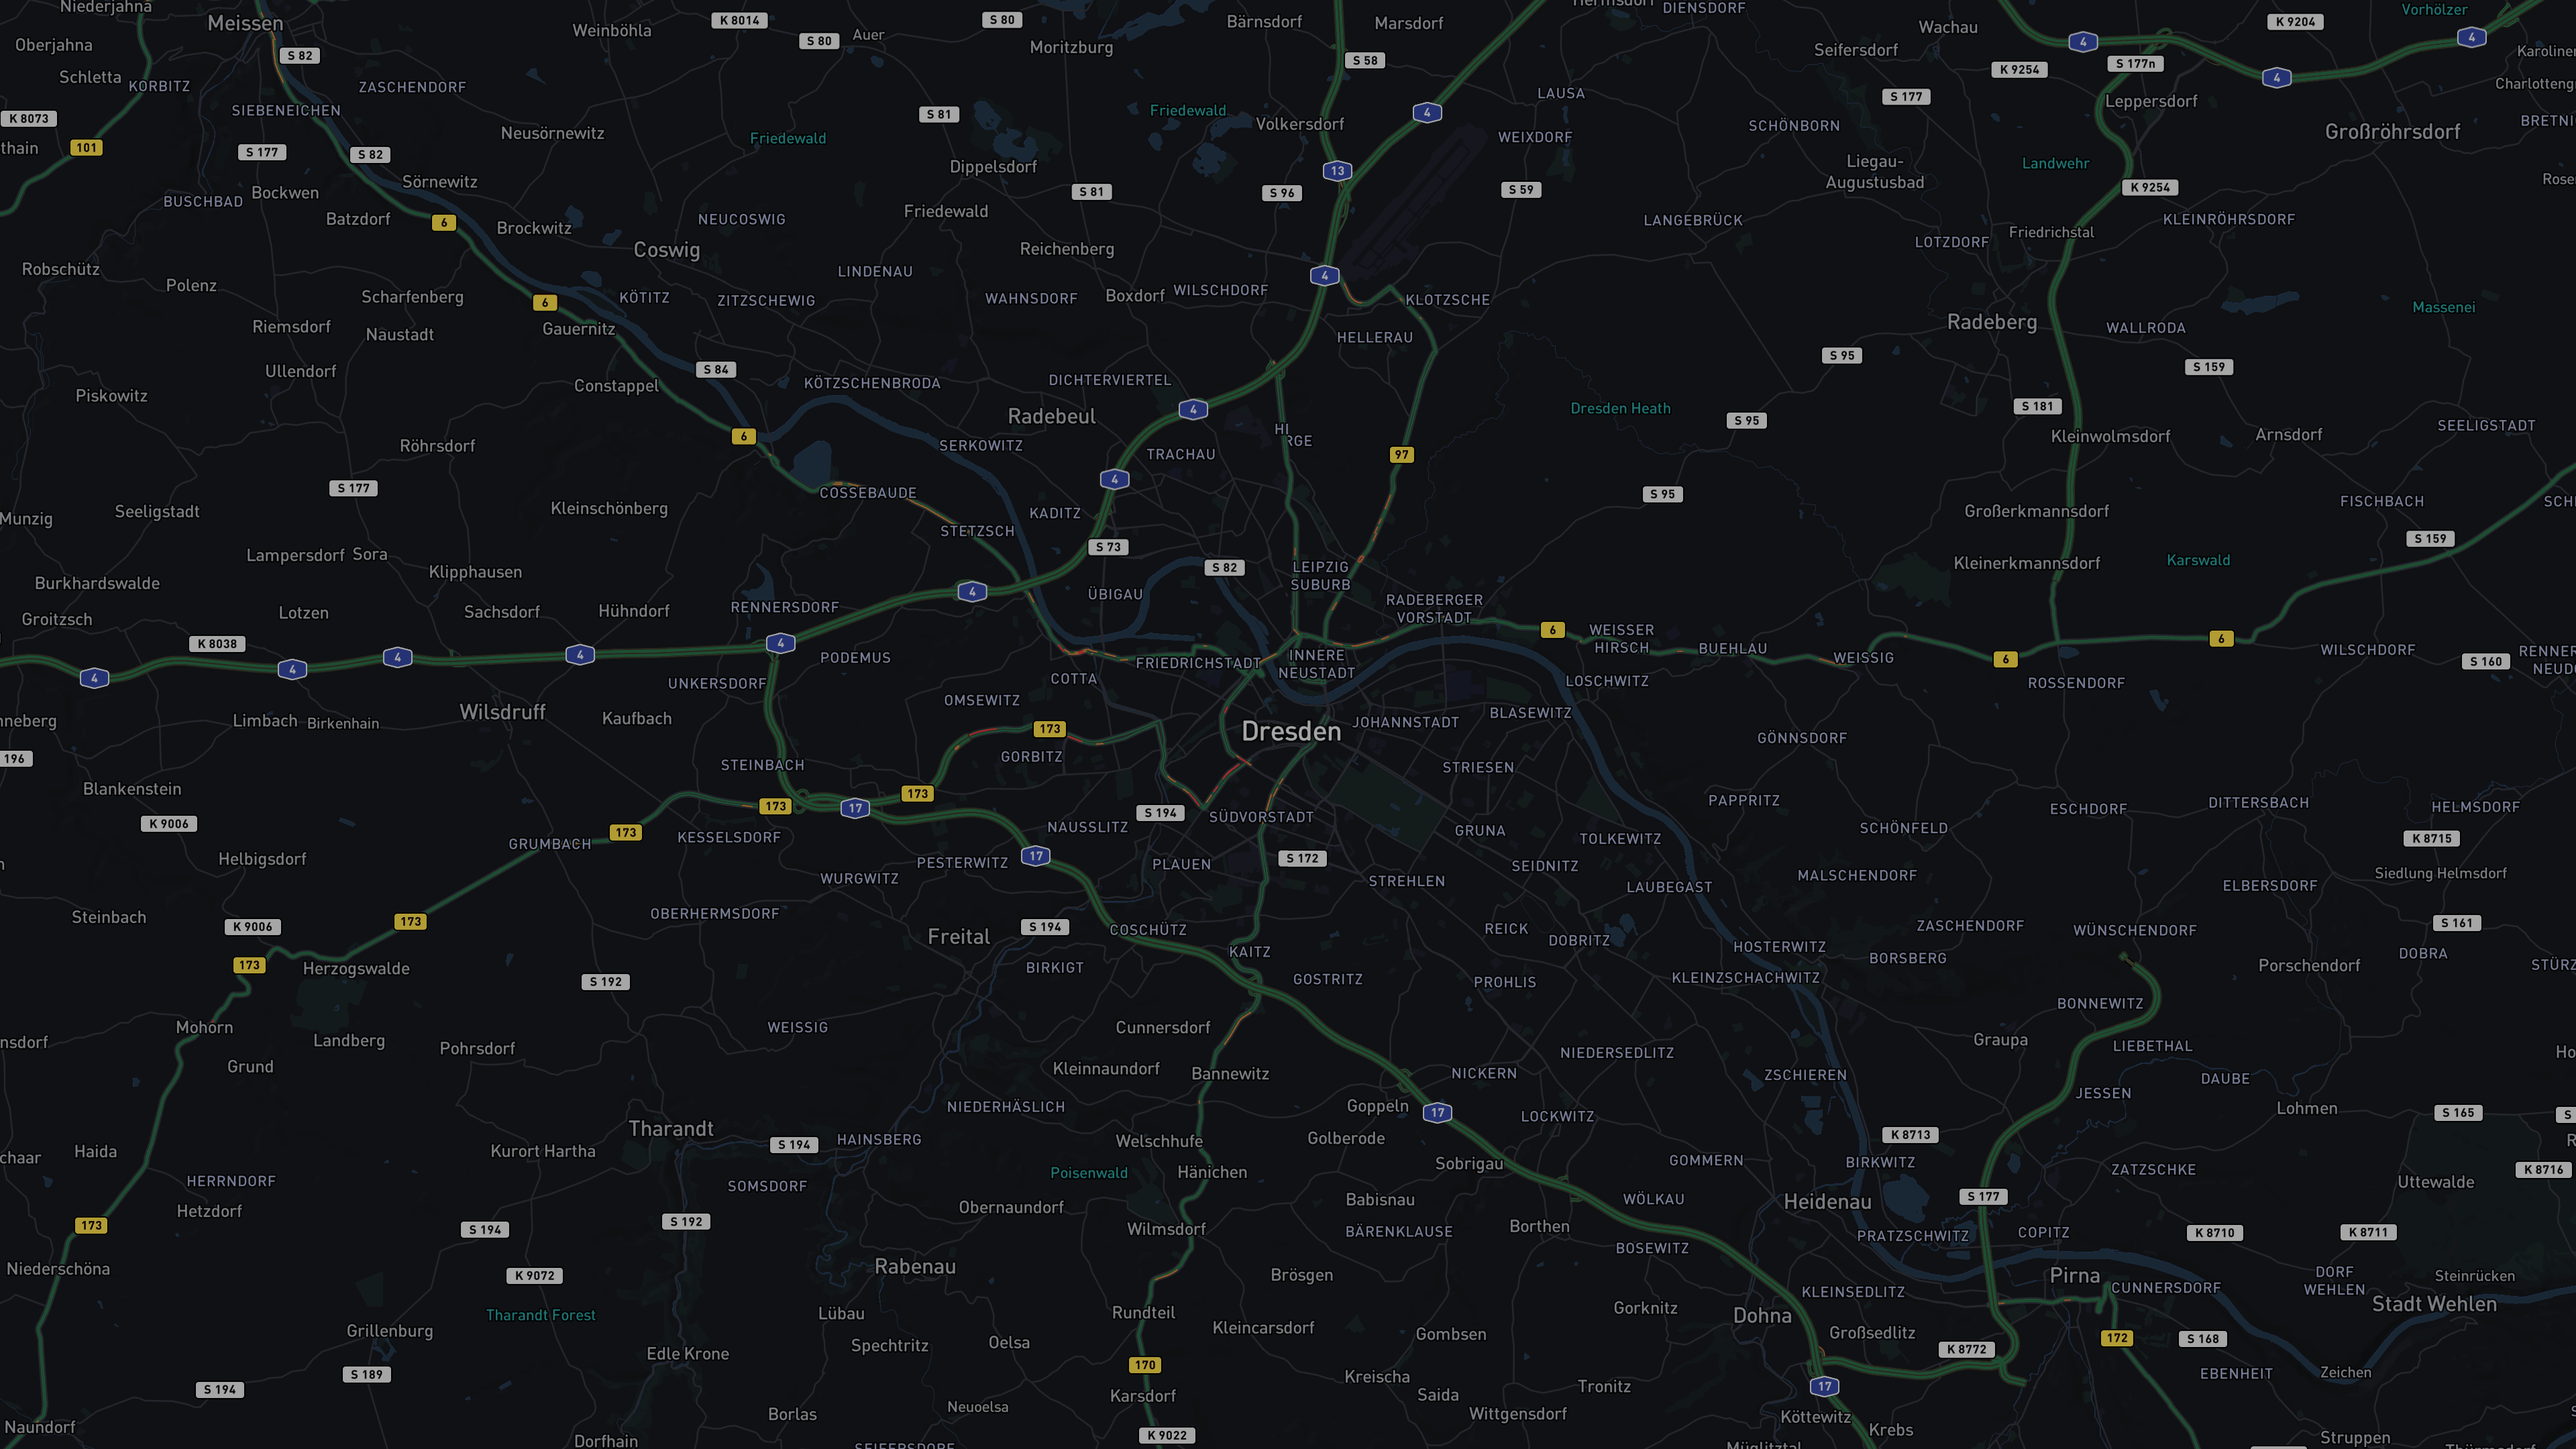
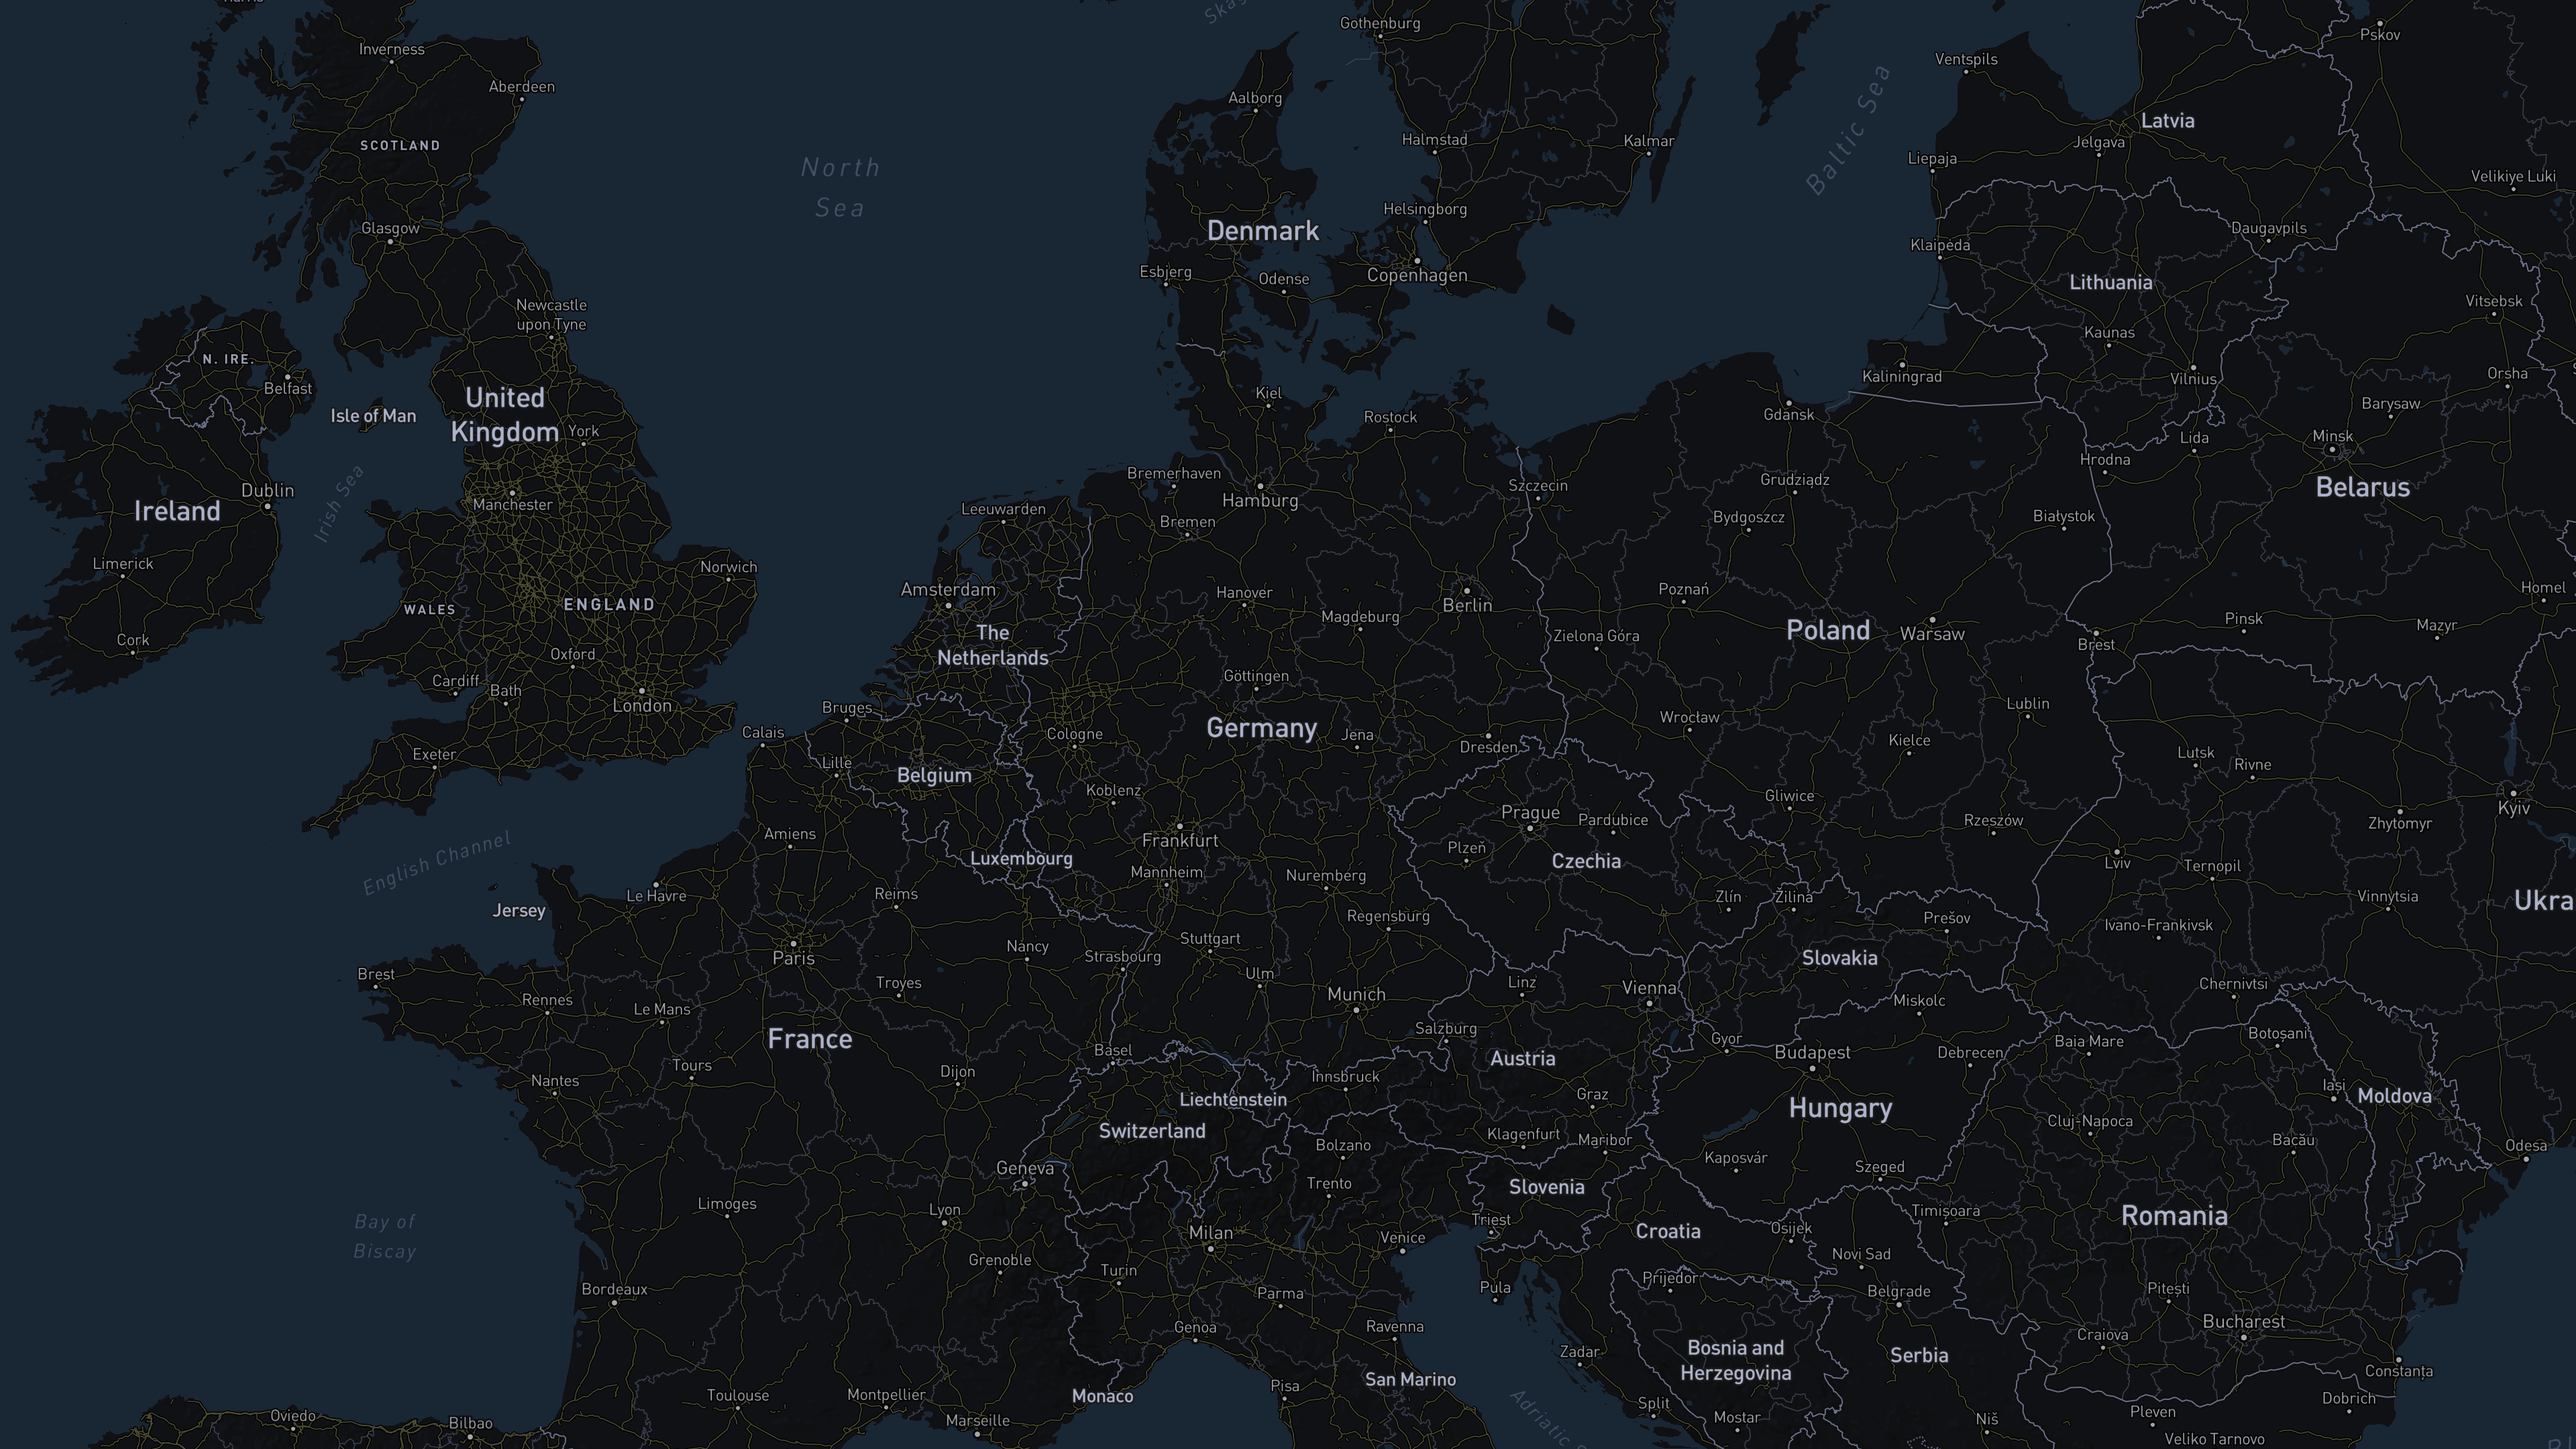
feat: update map configuration with new center coordinates and zoom level

diff --git a/web/src/lib/app/shell/map/MapComponent.svelte b/web/src/lib/app/shell/map/MapComponent.svelte
@@ -52,8 +52,8 @@
                 container: mapContainer!,
                 style,
                 projection: "globe",
-                center: [13.7373, 51.0504],
-                zoom: 11
+                center: [10.4515, 51.1657],
+                zoom: 5
             });
 
             // Any manual camera interaction cancels focus mode. Programmatic

diff --git a/web/scripts/generate_map_images.py b/web/scripts/generate_map_images.py
@@ -33,9 +33,9 @@ from PIL import Image
 # --------------------------------------------------------------------------- #
 # CONFIG - edit these defaults, or override any of them via CLI flags.
 # --------------------------------------------------------------------------- #
-CENTER_LAT = 51.0504
-CENTER_LON = 13.7373
-ZOOM = 11              # geographic zoom level. Bump this for bigger content.
+CENTER_LAT = 51.1657
+CENTER_LON = 10.4515
+ZOOM = 5               # geographic zoom level. Bump this for bigger content.
 SCALE = 2             # 1 = normal, 2 = @2x retina (bigger, sharper text)
 WIDTH = 3840          # final image width  in px (matches 4K; used as a CSS
 HEIGHT = 2160         # final image height in px  object-cover placeholder)
